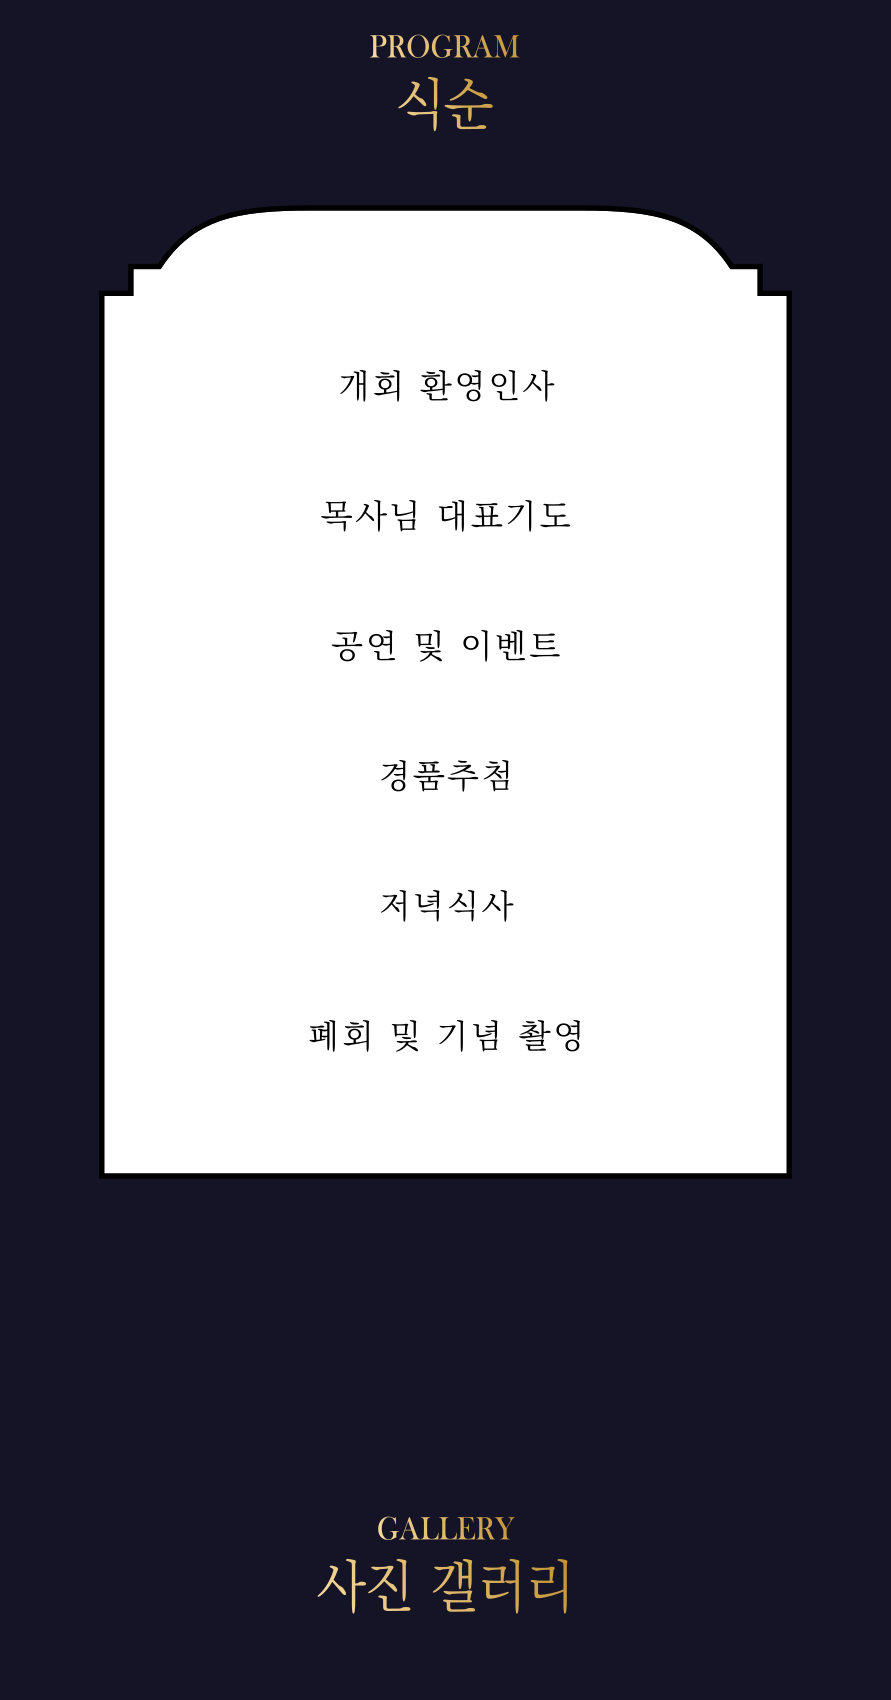
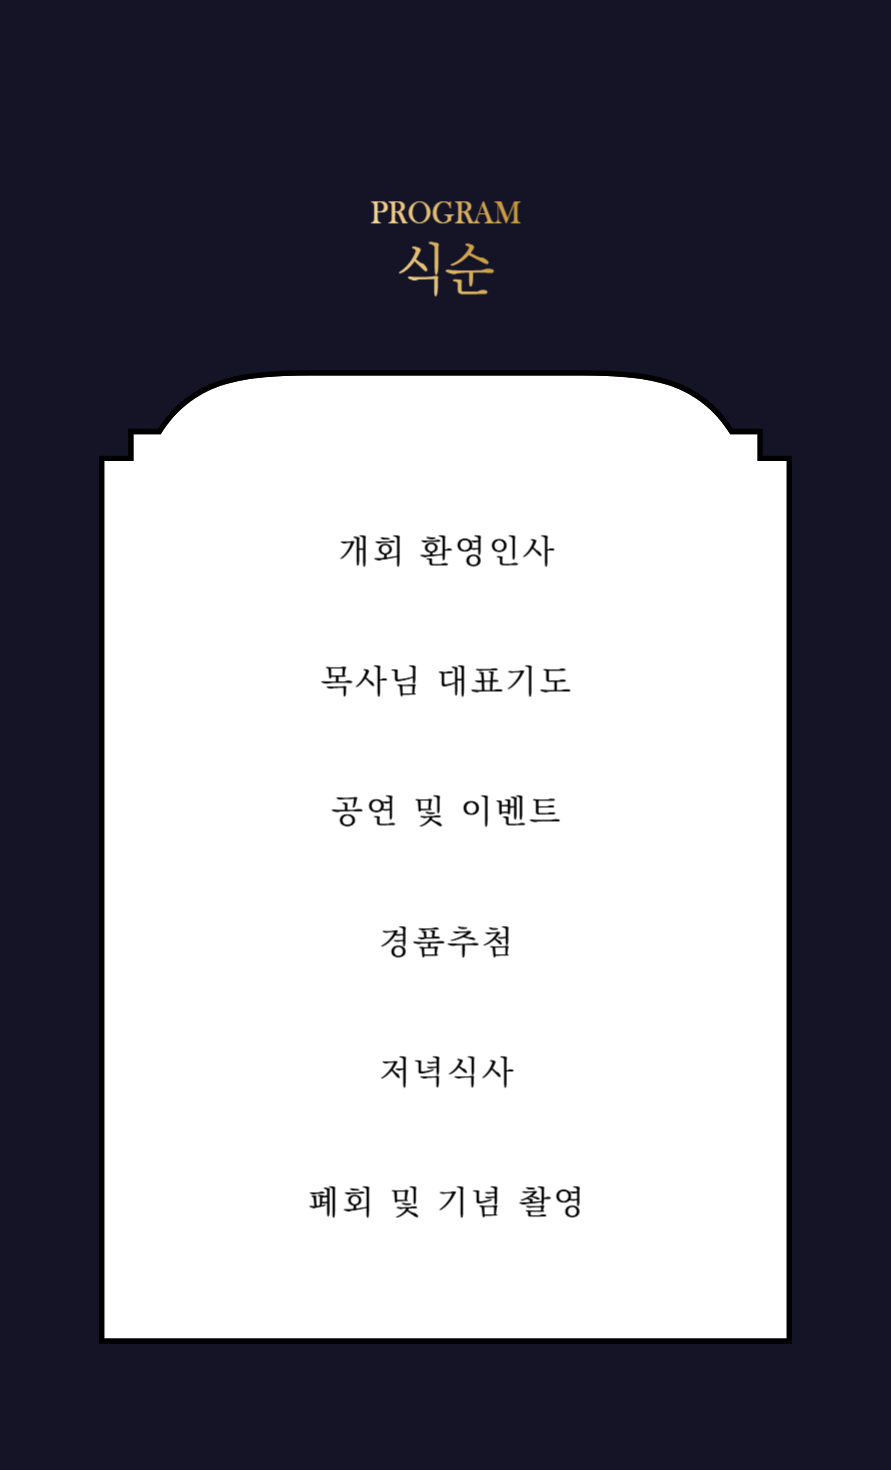
fix: 화면 순서 다시 변경

diff --git a/src/main/resources/templates/invitation.html b/src/main/resources/templates/invitation.html
@@ -72,8 +72,6 @@
     <img class="top" src="/img/top.png" />
   </div>
 
-  <img class="align" src="/img/program.png">
-
   <div class="gallery swiper-container">
     <div class="swiper-wrapper">
       <div class="swiper-slide"><img src="/img/gallery/01.jpg"/></div>
@@ -103,15 +101,15 @@
   </script>
   </div>
 
-
+  <img class="align" src="/img/program.png">
   <img class="align" src="/img/location1.png">
   <div id="map" style="width:100%;height:350px;"></div>
   <script type="text/javascript" src="//dapi.kakao.com/v2/maps/sdk.js?appkey=a03078957efb1a40a19efe081f1d413f"></script>
   <script>
     var mapContainer = document.getElementById('map'), // 지도를 표시할 div
             mapOption = {
-              center: new kakao.maps.LatLng(33.450701, 126.570667), // 지도의 중심좌표
-              level: 3 // 지도의 확대 레벨
+              center: new kakao.maps.LatLng(37.26766553127844, 126.95421014740435), // 지도의 중심좌표
+              level: 2 // 지도의 확대 레벨
             };
 
     var map = new kakao.maps.Map(mapContainer, mapOption); // 지도를 생성합니다
